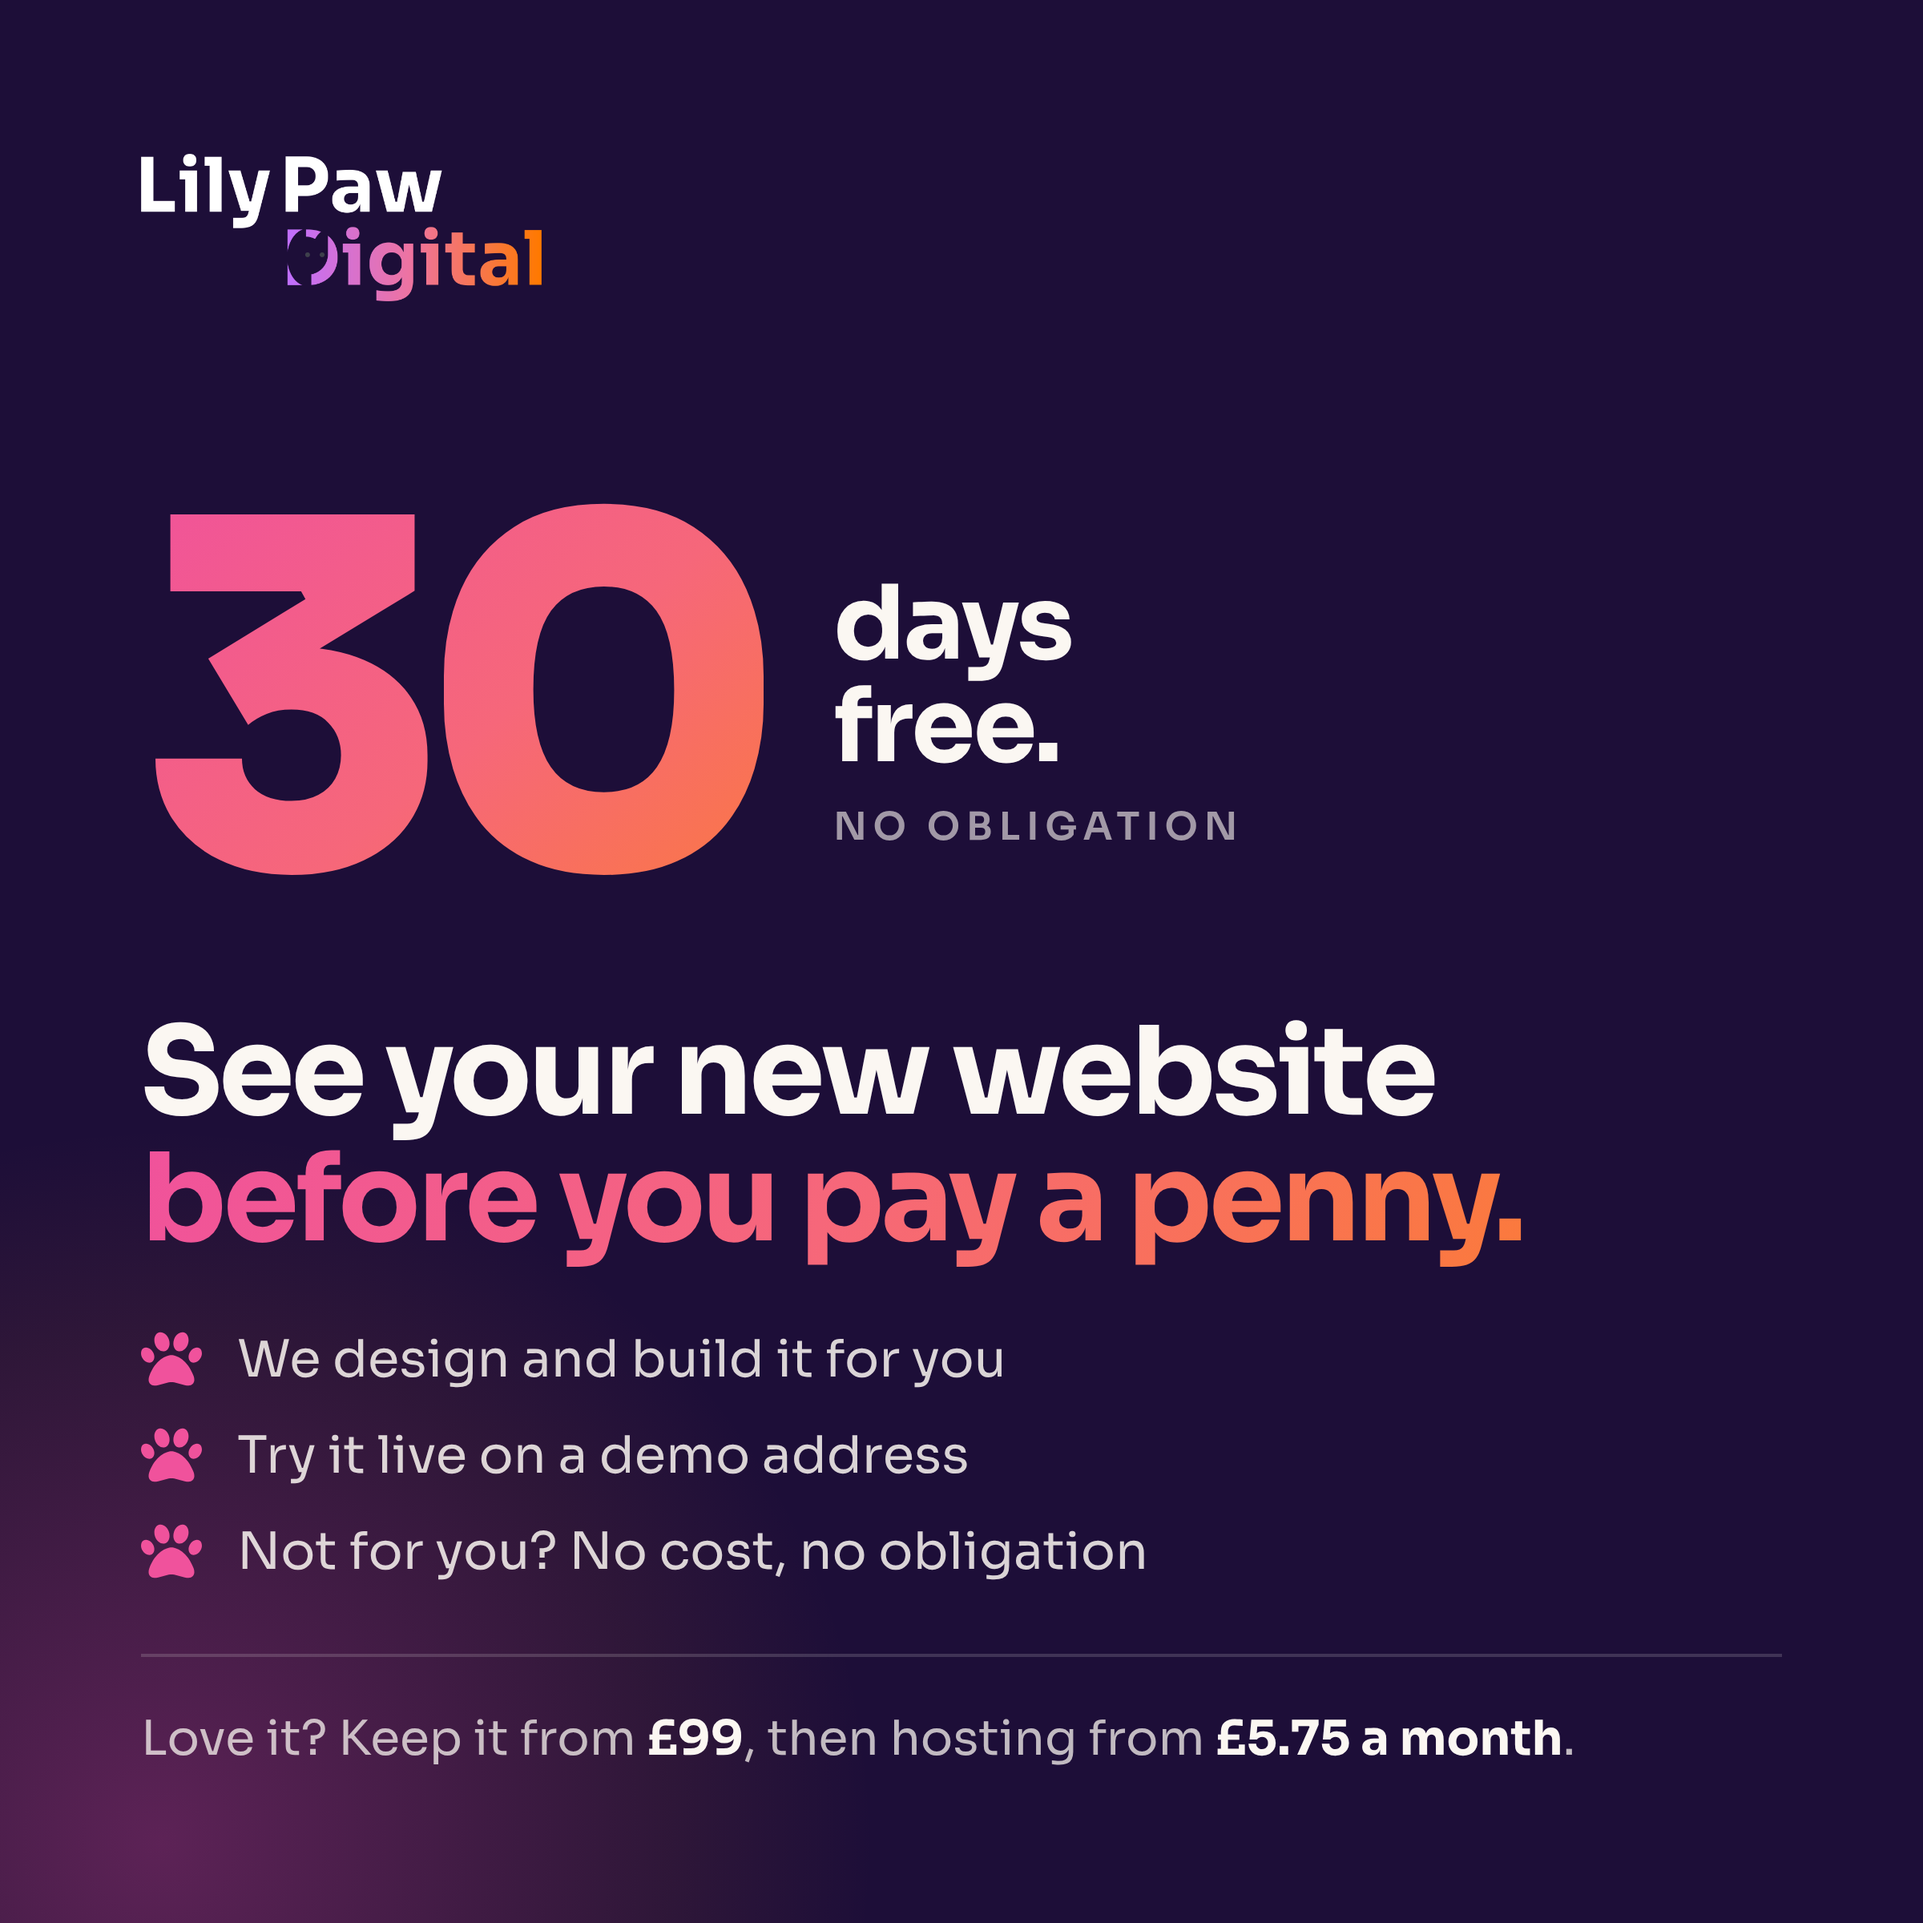
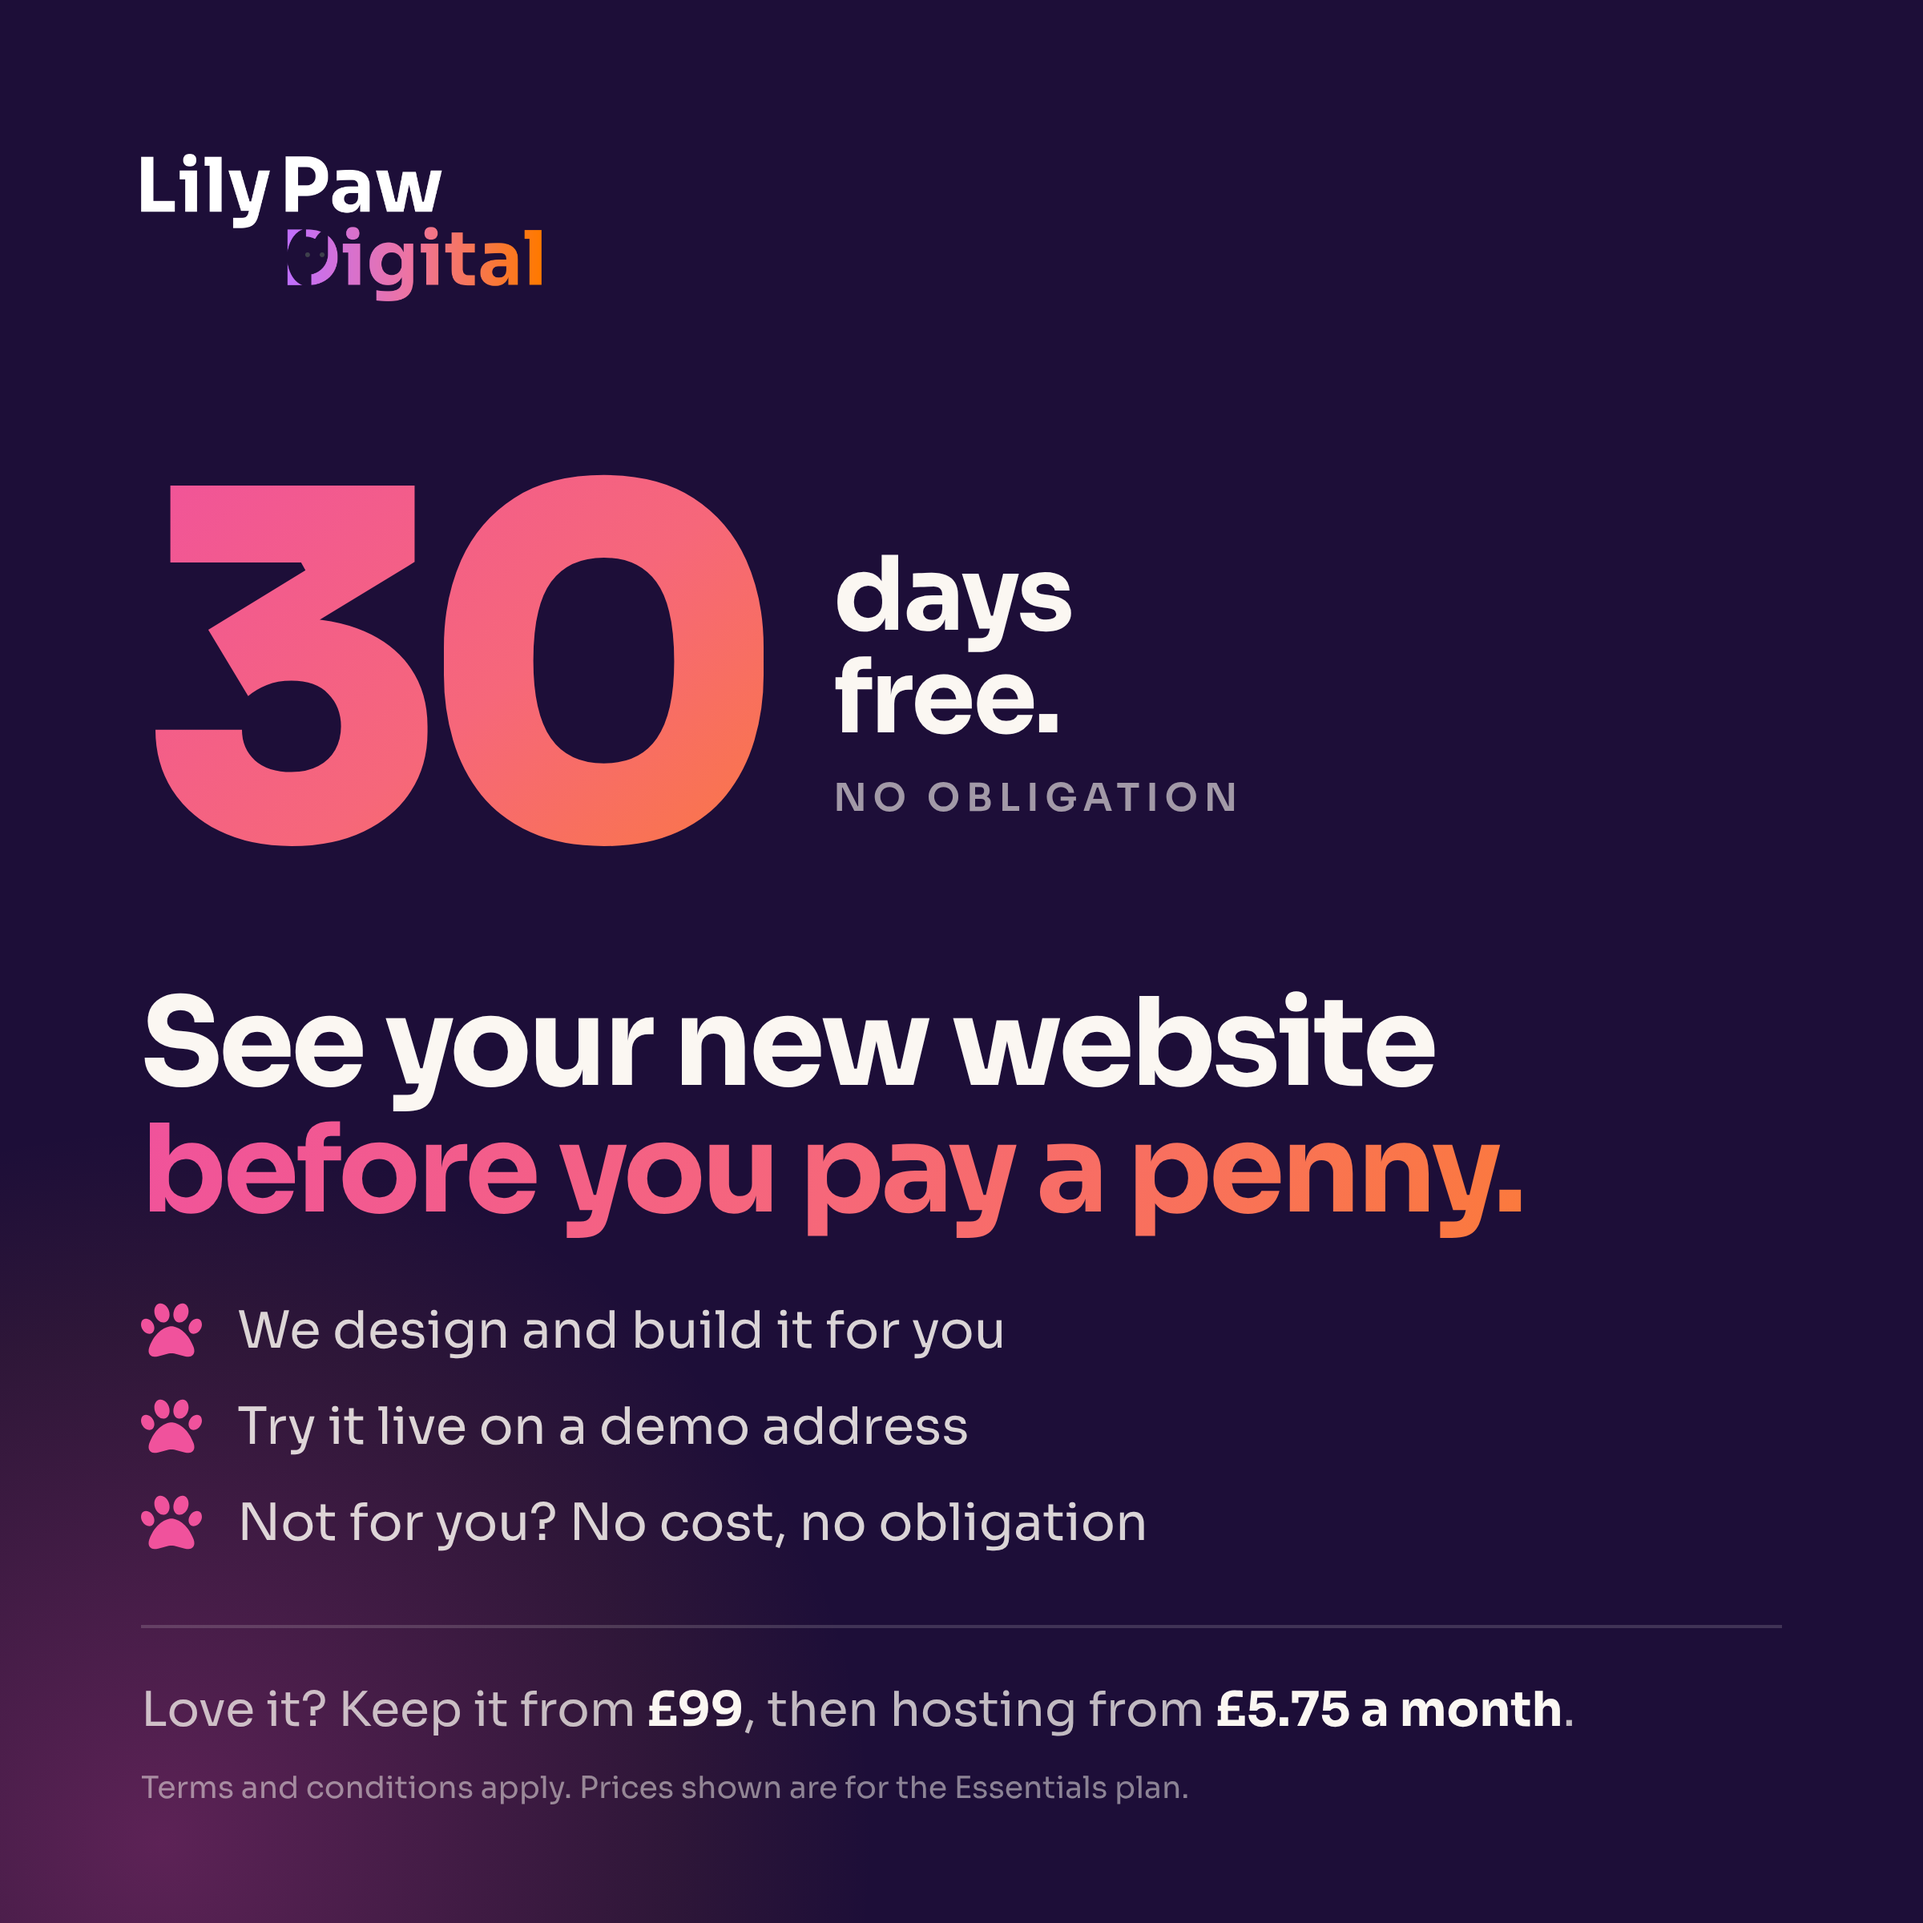
Add terms and conditions line to LinkedIn advert
Claude-Session: https://claude.ai/code/session_01HKWtXHK8vokcRtvXPhprQV

diff --git a/linkedin/advert-free-trial.html b/linkedin/advert-free-trial.html
@@ -3,7 +3,7 @@
 *{margin:0;box-sizing:border-box}
 body{width:1200px;height:1200px;background:#1d0e38;font-family:Sora;color:#fbf7f2;overflow:hidden;position:relative}
 .glow{position:absolute;width:900px;height:900px;left:-350px;bottom:-400px;border-radius:50%;background:radial-gradient(circle,rgba(240,82,156,.3),rgba(251,122,60,.08) 50%,transparent 70%)}
-.wrap{position:absolute;inset:0;padding:96px 88px;display:flex;flex-direction:column}
+.wrap{position:absolute;inset:0;padding:96px 88px 72px;display:flex;flex-direction:column}
 .logo{height:92px;width:auto;align-self:flex-start}
 .offer{margin-top:auto;display:flex;align-items:center;gap:34px}
 .offer b{font-size:300px;line-height:1;margin:-40px 0 -30px;font-weight:800;letter-spacing:-.06em;background:linear-gradient(140deg,#f0529c,#f6677a 55%,#fb7a3c);-webkit-background-clip:text;color:transparent;padding-right:.04em}
@@ -16,6 +16,7 @@ ul{list-style:none;padding:0;margin-top:40px;display:flex;flex-direction:column;
 li{font-size:32px;color:rgba(251,247,242,.85);display:flex;align-items:center;gap:22px}
 li svg{width:38px;height:38px;flex:none;color:#f0529c}
 .price{margin-top:44px;padding-top:32px;border-top:2px solid rgba(251,247,242,.16);font-size:30px;color:rgba(251,247,242,.74)}
+.terms{margin-top:18px;font-size:19px;color:rgba(251,247,242,.5)}
 .price strong{color:#fbf7f2;font-weight:700}
 </style></head><body>
 <div class="glow"></div>
@@ -31,5 +32,6 @@ li svg{width:38px;height:38px;flex:none;color:#f0529c}
 <li><svg viewBox="0 0 512 512"><path fill="currentColor" d="M234.5 92.9c14.3 42.9-.3 86.2-32.6 96.8s-70.1-15.6-84.4-58.5 .3-86.2 32.6-96.8 70.1 15.6 84.4 58.5zM100.4 198.6c18.9 32.4 14.3 70.1-10.2 84.1s-59.7-.9-78.5-33.3-14.3-70.1 10.2-84.1 59.7 .9 78.5 33.3zM69.2 401.2C121.6 259.9 214.7 224 256 224s134.4 35.9 186.8 177.2c3.6 9.7 5.2 20.1 5.2 30.5l0 1.6c0 25.8-20.9 46.7-46.7 46.7-11.5 0-22.9-1.4-34-4.2l-88-22c-15.3-3.8-31.3-3.8-46.6 0l-88 22c-11.1 2.8-22.5 4.2-34 4.2-25.8 0-46.7-20.9-46.7-46.7l0-1.6c0-10.4 1.6-20.8 5.2-30.5zM421.8 282.7c-24.5-14-29.1-51.7-10.2-84.1s54-47.3 78.5-33.3 29.1 51.7 10.2 84.1-54 47.3-78.5 33.3zM310.1 189.7c-32.3-10.6-46.9-53.9-32.6-96.8s52.1-69.1 84.4-58.5 46.9 53.9 32.6 96.8-52.1 69.1-84.4 58.5z"/></svg>Not for you? No cost, no obligation</li>
 </ul>
 <div class="price">Love it? Keep it from <strong>£99</strong>, then hosting from <strong>£5.75 a month</strong>.</div>
+<div class="terms">Terms and conditions apply. Prices shown are for the Essentials plan.</div>
 </div></div>
 </body></html>
